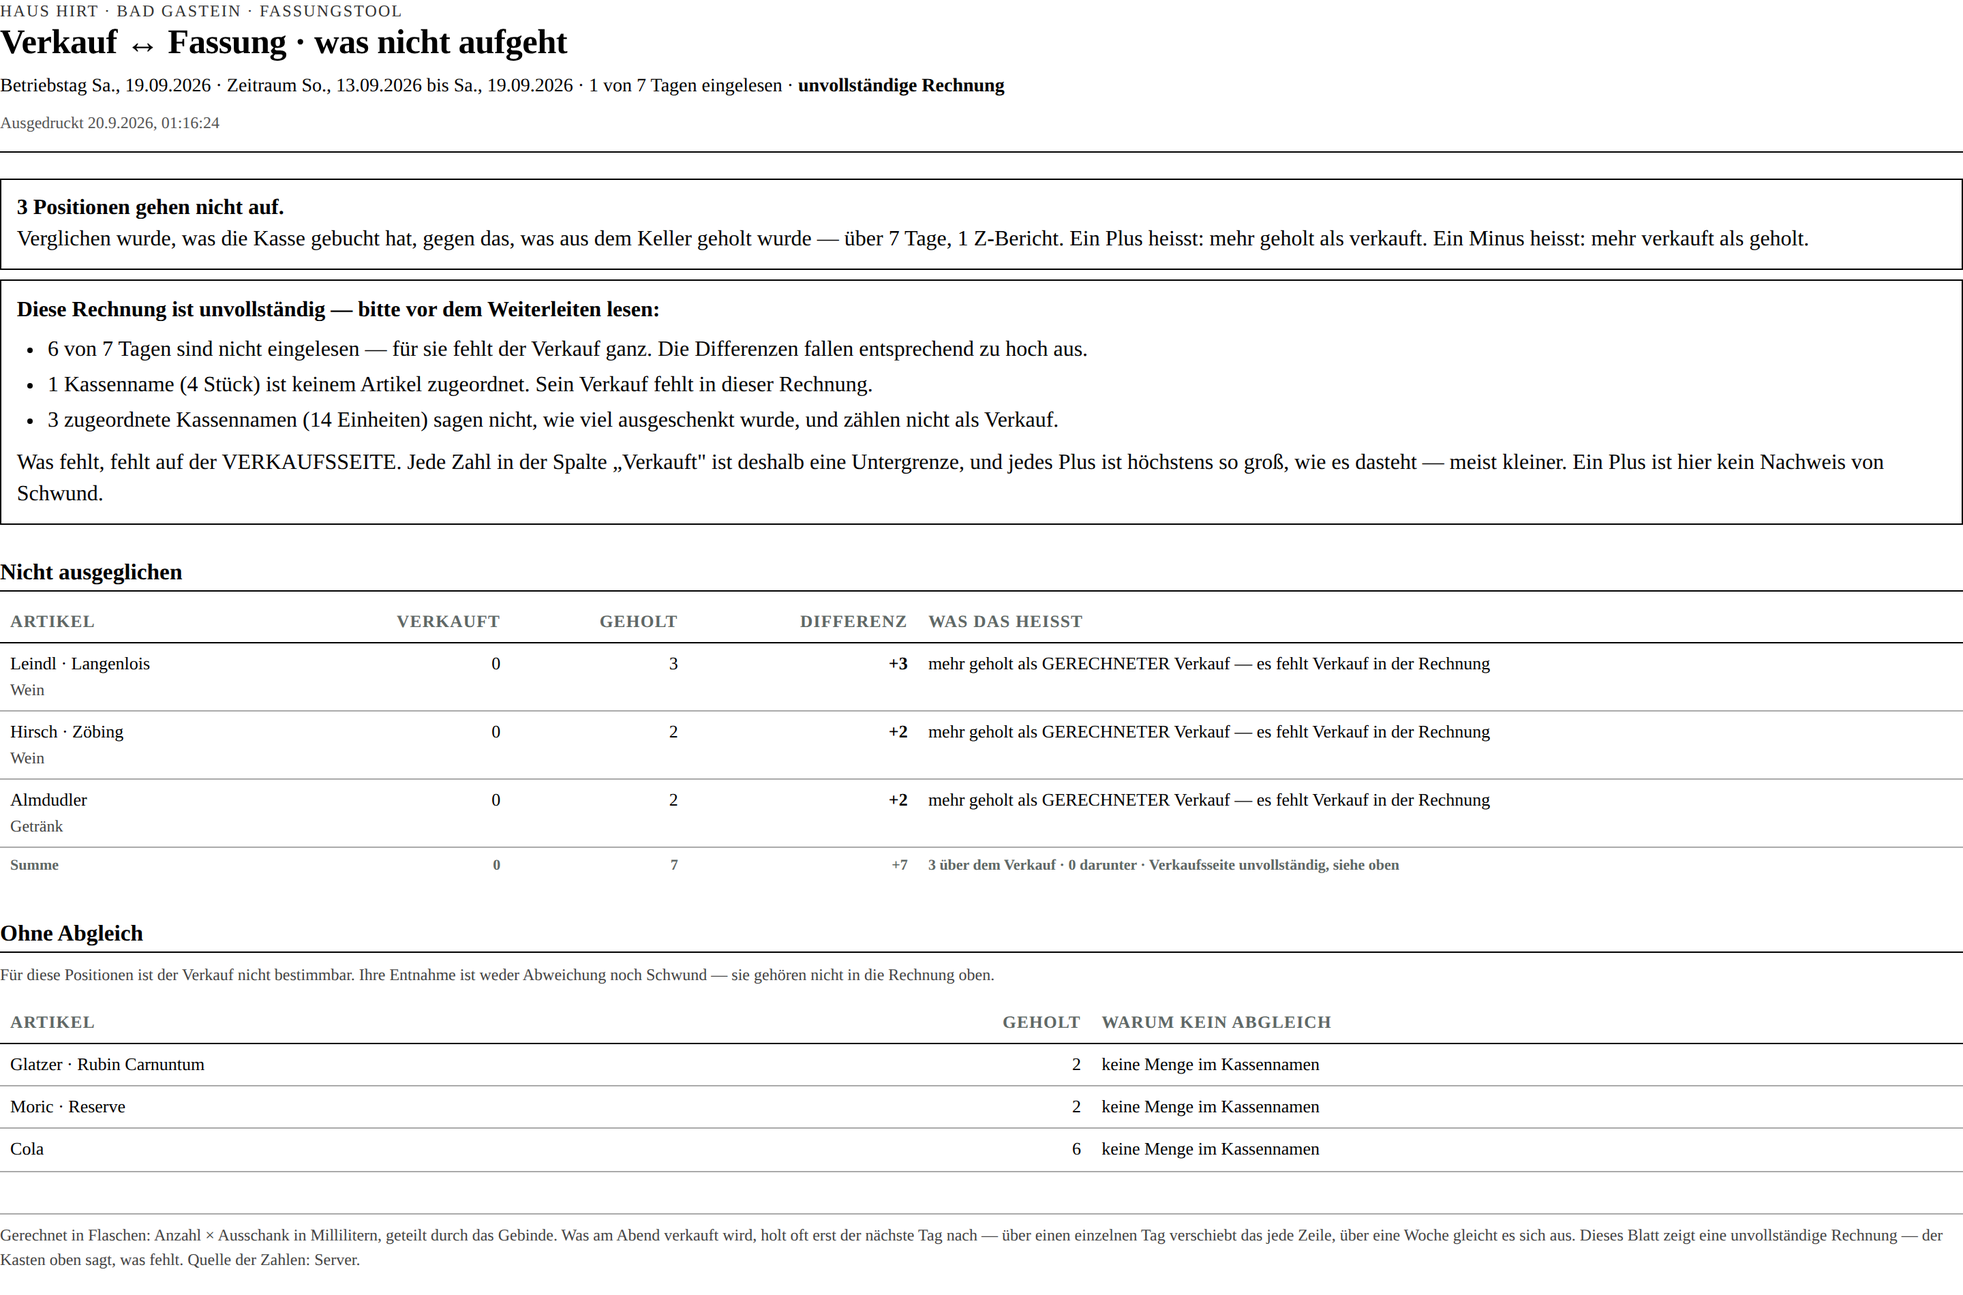
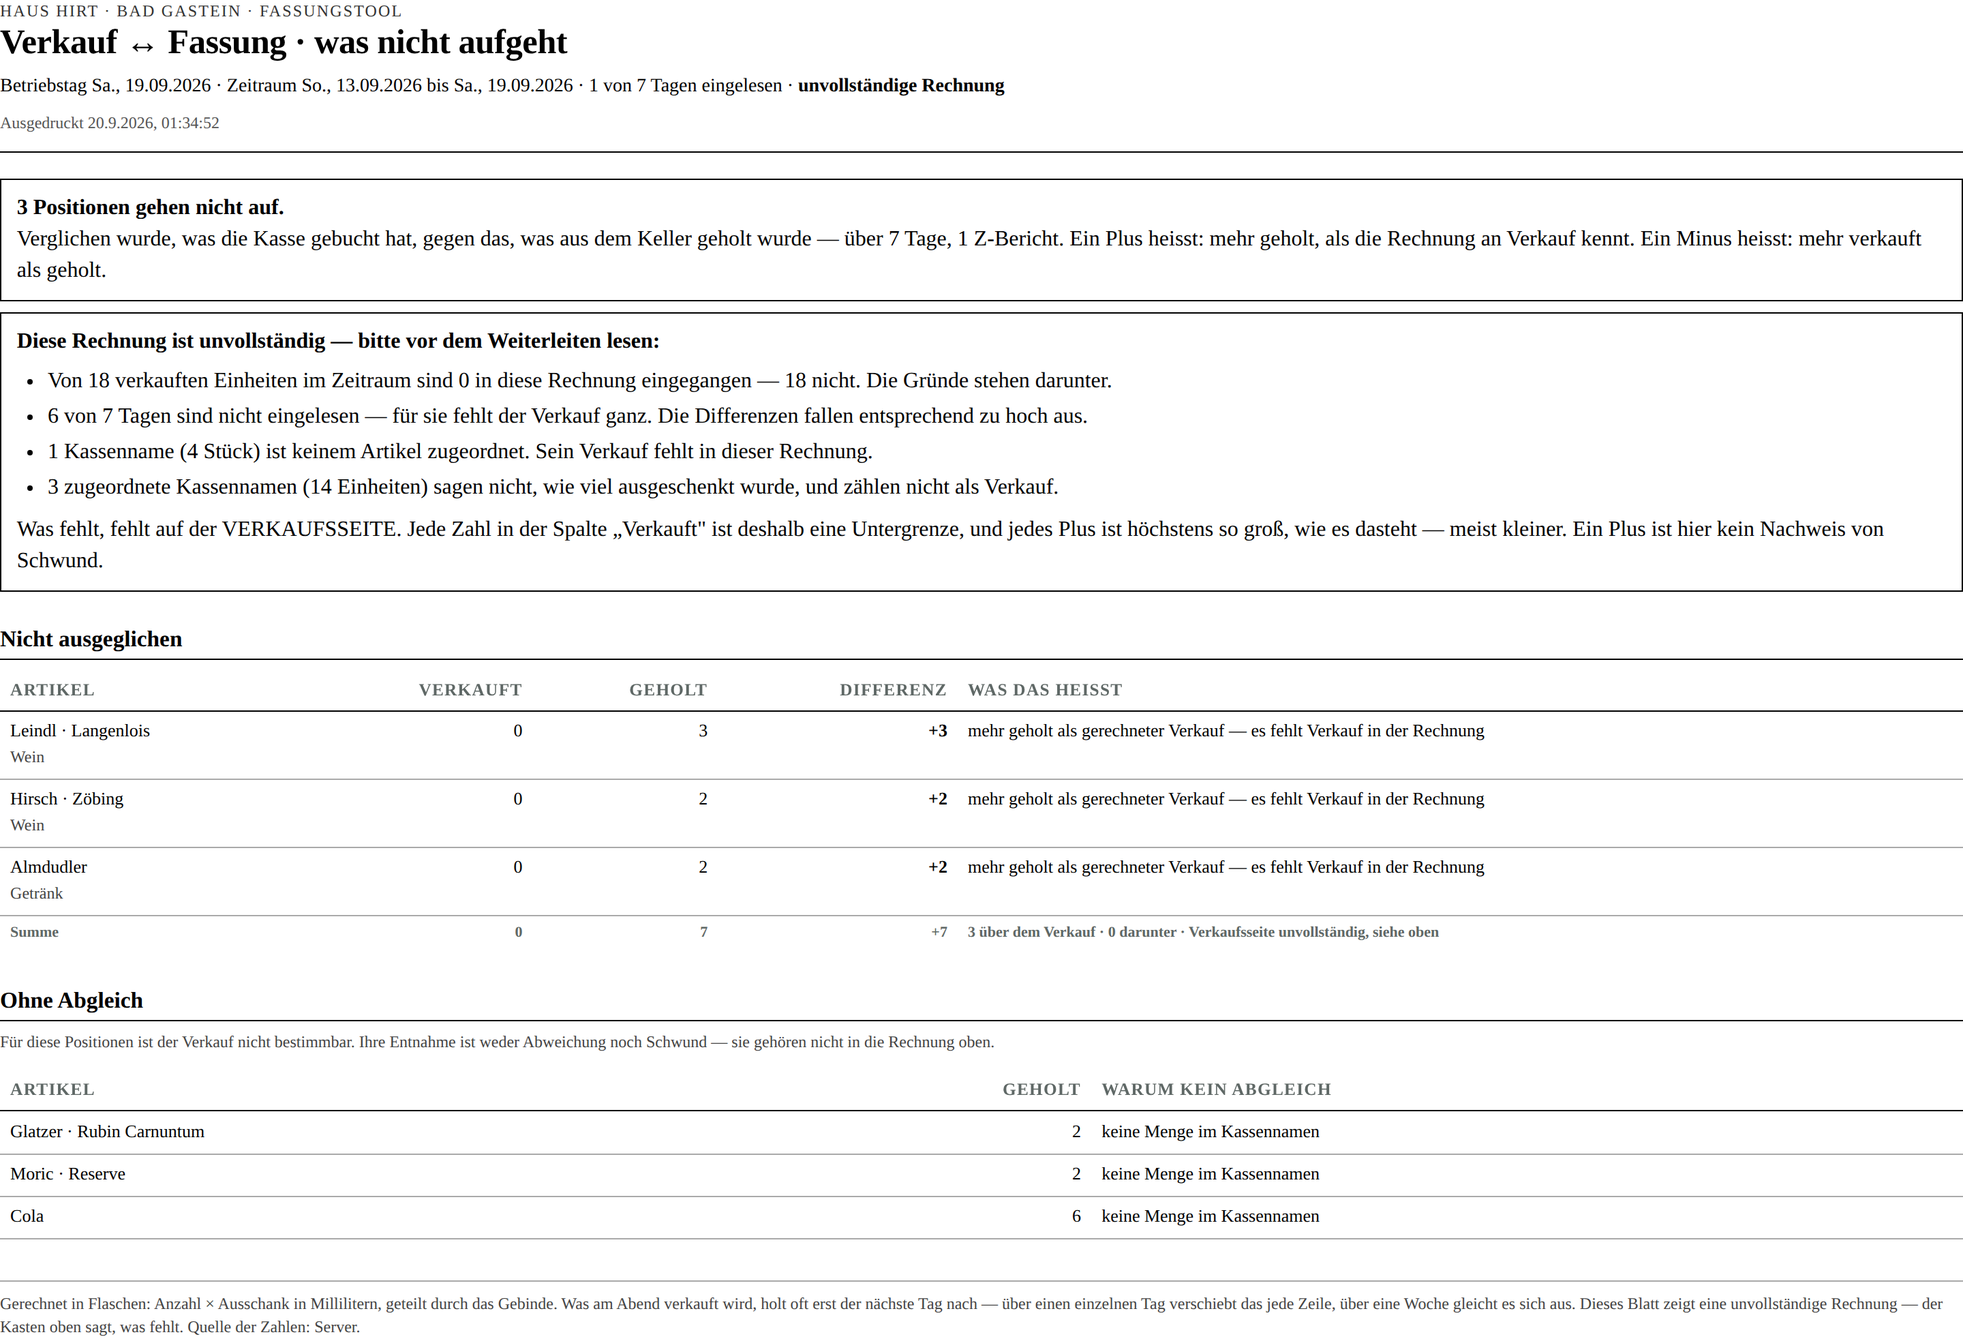
[software-engineer] Runde 18: der A-Fund der zweiten Jagd an der Wurzel
Der Vorbehaltskasten kannte nur die drei Lücken, die sich selbst melden.
Zwei Wege nehmen den Verkauf STILL aus der Rechnung, und beide sind Alltag:

· „Ignorieren" ist ein vollwertiger Zustand und der einzige Weg, einen
  Cocktail ohne Menge im Kassennamen aus dem roten Balken zu bekommen.
  Seine Flaschen kommen trotzdem aus dem Keller.
· Eine Rezeptzutat mit 0 ml rechnete 6 Gläser zu 0 Flaschen und meldete
  „gerechnet" — `Math.max(0, …)` im Formular lässt die 0 zu.

In beiden Lagen stand auf dem Blatt für die Gruppe „Verkauft 0 · Geholt 3 ·
+3 · Vorrat aufgebaut oder Schwund", ohne einen einzigen Vorbehalt.

`abgleich()` zählt jetzt schlicht, wie viele der verkauften EINHEITEN es in
die Rechnung geschafft haben (`stkGesamt`/`stkGerechnet`, additiv). Diese
eine Zahl steht als erste Zeile im Kasten und ist gegen jeden künftigen
stillen Weg dicht. Eine Rezeptzutat ohne Menge gilt nicht mehr als
gerechnet, und das Formular nimmt die 0 nicht mehr an.

Das Wort „Schwund" steht in der Deutungsspalte dieses Blattes überhaupt
nicht mehr — auch bei vollständiger Rechnung entscheidet das ein Mensch im
Keller, kein Ausdruck. Der Kopfsatz, der dem Kasten darunter widersprach,
ist mitgezogen.

Dazu die drei übrigen Funde der zweiten Jagd:
· Bei OFFENER Leiste liess der Randwisch nach rechts Safari zurückblättern
  — genau dort liegt der Daumen. Wieder abgefangen; der 4px-Streifen
  zwischen Inhaltsbeginn und Randzone gehört jetzt ausdrücklich der
  Randgeste.
[…]

Changed region(s): [[0.0, 0.0, 1.0, 1.0], [0.4062, 0.4658, 0.7812, 0.7142], [0.1875, 0.4658, 0.3438, 0.5279]]

diff --git a/public/leitung.html b/public/leitung.html
@@ -1729,6 +1729,23 @@ function abgleich(tag, spanne){
   const imFenster = t => t>=von && t<=bis;
 
   const verk={}, offen=[], ohneGroesse=[], berichte=[];
+  /* NACHTRICHTIGUNG (zweite Jagd nach Runde 18 · A): Bis hierher zählte
+     nur, was sich selbst meldet — fehlende Berichte, offene Namen,
+     fehlende Gebindegrössen. Zwei Wege nehmen den Verkauf aber STILL aus
+     der Rechnung, und beide sind Alltag:
+       · „Ignorieren" ist ein vollwertiger Zustand (`vZuordnung` bewirbt
+         ihn ausdrücklich) und der einzige Weg, einen Cocktail ohne Menge
+         im Kassennamen aus dem roten Balken zu bekommen. Seine Flaschen
+         kommen trotzdem aus dem Keller.
+       · Eine Rezeptzutat mit 0 ml rechnet 6 Gläser zu 0 Flaschen und
+         meldet „gerechnet".
+     In beiden Fällen stand auf dem Blatt für die Gruppe „Verkauft 0 ·
+     Geholt 3 · +3 · Vorrat aufgebaut oder Schwund". Deshalb wird jetzt
+     schlicht gezählt, wie viele der verkauften EINHEITEN es überhaupt in
+     die Rechnung geschafft haben — unabhängig vom Grund. Diese eine Zahl
+     ist gegen jeden künftigen stillen Weg dicht. */
+  let stkGesamt=0, stkGerechnet=0, stkIgnoriert=0;
+  const ignoriert=[];
   /* Artikel, deren VERKAUF in diesem Zeitraum nicht bestimmbar ist.
      Für sie gibt es keine Differenz und keine Deutung — die Entnahme
      steht da, weil sie bekannt ist, aber ohne Urteil.
@@ -1783,6 +1800,7 @@ function abgleich(tag, spanne){
   Object.keys(ZBER).filter(imFenster).sort().forEach(t=>{
     const z=ZBER[t]; berichte.push(z);
     z.positionen.forEach(p=>{
+      stkGesamt+=(+p.anzahl||0);
       const r=REZ[p.name];
       if(r && r.length){                       /* zerlegtes Mischgetränk */
         /* Auch hier gilt: ohne bestätigtes Gebinde keine Flaschenzahl.
@@ -1797,8 +1815,18 @@ function abgleich(tag, spanne){
           r.forEach(x=>zaehlePos(x.id,false,"gebinde"));
           return;
         }
+        /* Eine Zutat ohne Menge ist keine Menge. `Math.max(0, …)` im
+           Formular lässt die 0 zu, und 6 × 0 / 350 = 0 sähe wie ein
+           gerechneter Verkauf von null aus (zweite Jagd · A). */
+        if(r.some(x=>!(+x.ml>0))){
+          const l=r.find(x=>!(+x.ml>0));
+          merkeOhneGroesse(p, l.id, {fehlt:"ausschank"}, true);
+          r.forEach(x=>zaehlePos(x.id,false,"menge"));
+          return;
+        }
         r.forEach((x,i)=>{ verk[x.id]=(verk[x.id]||0)+(+p.anzahl||0)*x.ml/gebs[i].ml;
           zaehlePos(x.id,true); });
+        stkGerechnet+=(+p.anzahl||0);
         return;
       }
       const zu=zuordnung(p);
@@ -1824,10 +1852,17 @@ function abgleich(tag, spanne){
         else offen.push({name:p.name, anzahl:(+p.anzahl||0), umsatz:(+p.umsatz||0)});
         return;
       }
-      if(zu.status==="ignoriert") return;
+      if(zu.status==="ignoriert"){
+        stkIgnoriert+=(+p.anzahl||0);
+        const i=ignoriert.find(o=>o.name===p.name);
+        if(i) i.anzahl+=(+p.anzahl||0);
+        else ignoriert.push({name:p.name, anzahl:(+p.anzahl||0)});
+        return;
+      }
       const f=flaschen(p, zu.id);
       if(!f.ok){ merkeOhneGroesse(p, zu.id, f); zaehlePos(zu.id,false,f.fehlt); return; }
       verk[zu.id]=(verk[zu.id]||0)+f.fl; zaehlePos(zu.id,true);
+      stkGerechnet+=(+p.anzahl||0);
     });
   });
   const z=berichte.length?berichte[berichte.length-1]:null;
@@ -1876,7 +1911,10 @@ function abgleich(tag, spanne){
                  || Math.abs(b.diff)-Math.abs(a.diff) || b.verkauf-a.verkauf);
 
   return {z, zeilen, offen, ohneGroesse, unklar, vorbehalt, verk, ent, von, bis, spanne,
-          berichte:berichte.length};
+          berichte:berichte.length,
+          /* Die eine Zahl, an der ablesbar ist, wie viel von der
+             Verkaufsseite überhaupt in der Rechnung steht. */
+          ignoriert, stkGesamt, stkGerechnet, stkIgnoriert};
 }
 
 /* `ohneGroesse` führt an drei verschiedene Orte, und wer sie in einen
@@ -2616,6 +2654,13 @@ function druckDifferenzen(tag, a){
   const tOG=teileOhneGroesse(a.ohneGroesse);
   const stkOffen=a.offen.reduce((s,o)=>s+(+o.anzahl||0),0);
   const vorbehalte=[];
+  /* NACHTRICHTIGUNG (zweite Jagd · A): Zuerst die eine Zahl, die jeden
+     Weg mitnimmt — auch die stillen. Danach erst die Gründe. */
+  const draussen=Math.max(0, (a.stkGesamt||0)-(a.stkGerechnet||0));
+  if(draussen) vorbehalte.push(
+    "Von "+num(a.stkGesamt)+" verkauften Einheiten im Zeitraum sind "
+    +num(a.stkGerechnet)+" in diese Rechnung eingegangen — "+num(draussen)
+    +" nicht. Die Gründe stehen darunter.");
   if(a.berichte<a.spanne) vorbehalte.push(
     (a.spanne-a.berichte)+" von "+a.spanne+" Tagen sind nicht eingelesen — für sie fehlt "
     +"der Verkauf ganz. Die Differenzen fallen entsprechend zu hoch aus.");
@@ -2630,9 +2675,14 @@ function druckDifferenzen(tag, a){
   if(tOG.ausschank.length) vorbehalte.push(
     tOG.ausschank.length+" zugeordnete Kassennamen ("+num(tOG.stkAusschank)
     +" Einheiten) sagen nicht, wie viel ausgeschenkt wurde, und zählen nicht als Verkauf.");
+  if(a.ignoriert && a.ignoriert.length) vorbehalte.push(
+    a.ignoriert.length+" Kassennamen ("+num(a.stkIgnoriert)+" Einheiten) stehen auf "
+    +"\u201eIgnorieren\u201c und zählen nicht als Verkauf — richtig für Speisen und Kaffee, "
+    +"falsch, sobald ein Getränk darunter ist.");
   /* Solange irgendein Verkauf fehlt, ist ein Plus kein Befund über den
-     Keller. Das Wort, das jemanden beschuldigt, bleibt dann weg. */
-  const halbeRechnung = vorbehalte.length>0;
+     Keller. `draussen` deckt auch die Wege ab, für die es keinen eigenen
+     Grund in der Liste gibt (zweite Jagd · A). */
+  const halbeRechnung = draussen>0 || a.berichte<a.spanne || vorbehalte.length>0;
 
   const kopf=`<div class="notiz">
     ${a.berichte
@@ -2640,8 +2690,8 @@ function druckDifferenzen(tag, a){
          ? `<b>${auf.length} Position${auf.length===1?"":"en"} gehen nicht auf.</b><br>
             Verglichen wurde, was die Kasse gebucht hat, gegen das, was aus dem Keller
             geholt wurde — über ${a.spanne} Tag${a.spanne===1?"":"e"}, ${a.berichte}
-            Z-Bericht${a.berichte===1?"":"e"}. Ein Plus heisst: mehr geholt als verkauft.
-            Ein Minus heisst: mehr verkauft als geholt.`
+            Z-Bericht${a.berichte===1?"":"e"}. Ein Plus heisst: mehr geholt, als die Rechnung
+            an Verkauf kennt. Ein Minus heisst: mehr verkauft als geholt.`
          : `<b>Verkauf und Entnahme decken sich.</b><br>
             Keine Position weicht über eine Flasche ab.`)
       : `<b>In diesem Zeitraum liegt kein Z-Bericht vor.</b><br>
@@ -2663,8 +2713,12 @@ function druckDifferenzen(tag, a){
         <td class="r plus">${r.diff>0?"+":""}${num(r.diff)}</td>
         <td>${r.diff>0
               ?(halbeRechnung
-                ?"mehr geholt als GERECHNETER Verkauf — es fehlt Verkauf in der Rechnung"
-                :"mehr geholt als verkauft — Vorrat aufgebaut oder Schwund")
+                ?"mehr geholt als gerechneter Verkauf — es fehlt Verkauf in der Rechnung"
+                /* Auch bei vollständiger Rechnung steht hier kein
+                   Vorwurf. Das Blatt geht in eine Gruppe; ob eine
+                   Flasche fehlt oder im Vorrat steht, entscheidet ein
+                   Mensch im Keller, nicht ein Ausdruck (zweite Jagd). */
+                :"mehr geholt als verkauft — Vorrat aufgebaut oder im Keller nachsehen")
               :"mehr verkauft als geholt — Vorrat wird abgebaut"}
           ${r.vorbehalt?`<br><span class="mini">${esc(vorbehaltSatz(r.vorbehalt))}</span>`:""}</td>
       </tr>`).join("")}
@@ -3224,7 +3278,7 @@ function vZaehlliste(m){
 
    Zwei leere Zustände, nicht einer (ui-designer, Runde 3): „nichts da"
    und „nichts passt" sind verschiedene Nachrichten. */
-let EGFILTER={modus:"", wer:"", q:""}, EGOFFEN=null;
+let EGFILTER={modus:"", wer:"", q:""}, EGOFFEN=null, EGFREMD=null;
 
 /* Ein Vorgang hat auf dem Server eine `id`; lokal (Rückfall auf den
    Gerätespeicher) hat er keine. Der Schlüssel muss beides überstehen,
@@ -3318,12 +3372,23 @@ function vEingaenge(m){
           <td class="r"><button class="b klein" data-fremd="${i}">Ansehen</button></td>
         </tr>`).join("")}</tbody></table></div>`;
     m.appendChild(s);
-    /* `EGOFFEN` bleibt hier leer: Es zeigt auf die Serverliste, und ein
-       Schlüssel, den `finde()` dort nicht findet, liesse beim nächsten
-       Neuzeichnen ein Detail stehen, das zur Liste darüber nicht passt. */
+    /* NACHTRICHTIGUNG (zweite Jagd · B): Dieses Detail gehört zur Tabelle
+       darüber, nicht zur Serverliste. Es lag trotzdem in `#egDetail` —
+       und jeder Tastendruck im Suchfeld der SERVERLISTE löschte es, ohne
+       ein Wort, während seine eigene Tabelle unverändert stehenblieb.
+       Es bekommt deshalb eine eigene Fläche. */
+    const fd=document.createElement("div"); fd.id="egFremdDetail"; s.appendChild(fd);
+    const fSchl=v=>vgSchluessel(v);
     s.querySelectorAll("[data-fremd]").forEach(b=>b.onclick=()=>{
-      EGOFFEN=null; malDetail(fremd[+b.dataset.fremd]);
-      $("#egDetail").scrollIntoView({behavior:"smooth", block:"start"}); });
+      const v=fremd[+b.dataset.fremd];
+      EGFREMD=fSchl(v); malDetail(v, fd);
+      fd.scrollIntoView({behavior:"smooth", block:"start"}); });
+    /* Ein Filter der Serverliste zeichnet die ganze Ansicht neu. Ohne
+       eigenen Merker wäre dieses Detail danach weg — dieselbe Ursache,
+       nur eine Ebene tiefer (zweite Jagd · B). Die Tabelle hier steht
+       unverändert, also steht ihr Detail auch unverändert. */
+    const wieder=EGFREMD?fremd.find(v=>fSchl(v)===EGFREMD):null;
+    if(wieder) malDetail(wieder, fd); else EGFREMD=null;
   }
 
   function gefiltert(){
@@ -3372,6 +3437,10 @@ function vEingaenge(m){
        Runde 18 · B). */
     $("#egListe").querySelectorAll("[data-egzeile]").forEach(tr=>tr.onclick=e=>{
       if(e.target.closest("button")) return;
+      /* Wer eine Notiz markiert hat, wollte sie markieren, nicht öffnen
+         (zweite Jagd · C). */
+      const w=window.getSelection && window.getSelection();
+      if(w && !w.isCollapsed && String(w).length>1) return;
       aufschlagen(tr.dataset.egzeile); });
     $("#egListe").querySelectorAll("[data-egpdf]").forEach(b=>b.onclick=()=>{
       const v=finde(b.dataset.egpdf); if(v) druckVorgang(v);});
@@ -3379,8 +3448,10 @@ function vEingaenge(m){
     if(offen) malDetail(offen);
     else if($("#egDetail")) $("#egDetail").innerHTML="";
   }
-  function malDetail(v){
-    if(!v){ $("#egDetail").innerHTML=""; return; }
+  function malDetail(v, wohin){
+    const ziel = wohin || $("#egDetail");
+    if(!ziel) return;
+    if(!v){ ziel.innerHTML=""; return; }
     const B=vgBloecke(v);
     const tab=b=>{
       const ks=Object.keys(b.o).filter(k=>b.art==="zaehlung" || +b.o[k])
@@ -3392,22 +3463,26 @@ function vEingaenge(m){
         ${ks.map(k=>`<tr><td>${esc(vgName(k))}</td><td class="r"><b>${num(b.o[k])}</b></td></tr>`).join("")}
         <tr class="zwt"><td>Summe</td><td class="r">${num(summe(b.o))}</td></tr></tbody></table></div>`;
     };
-    $("#egDetail").innerHTML=`<div class="karte" style="margin-top:24px">
+    ziel.innerHTML=`<div class="karte" style="margin-top:24px">
       <div class="reihe">
         <div><h3 style="margin:0">${esc(MODUSNAME[v.mode]||v.mode)} · ${esc(deTag(v.tag))}</h3>
           <div class="mini">${esc(v.name||"ohne Namen")}${v.ts?" · abgelegt "+esc(new Date(v.ts).toLocaleString("de-AT")):""}
             · ${v.fertig?"abgeschlossen":"läuft noch"}</div></div>
         <span class="rechts"></span>
-        <button class="b" id="egPdf">Als PDF</button>
-        <button class="b klein" id="egJson">Rohdaten</button>
-        <button class="b klein" id="egZu">Schließen</button></div>
+        <button class="b" data-pdf>Als PDF</button>
+        <button class="b klein" data-json>Rohdaten</button>
+        <button class="b klein" data-zu>Schließen</button></div>
       ${v.notiz?`<div class="hinweis" style="margin-top:14px"><b>Notiz:</b> ${esc(v.notiz)}</div>`:""}
       ${B.length?B.map(tab).join("")
         :`<div class="leer" style="margin-top:20px">Dieser Vorgang hat keine Mengen bewegt und nichts gezählt.</div>`}
     </div>`;
-    $("#egZu").onclick=()=>{EGOFFEN=null; $("#egDetail").innerHTML="";};
-    $("#egPdf").onclick=()=>druckVorgang(v);
-    $("#egJson").onclick=()=>hol(`vorgang_${v.mode}_${v.tag}.json`,
+    /* Die Knöpfe hängen an der Karte, die gerade gebaut wurde — nicht an
+       einer Kennung, die es zweimal geben kann. */
+    ziel.querySelector("[data-zu]").onclick=()=>{
+      if(wohin) EGFREMD=null; else EGOFFEN=null;
+      ziel.innerHTML=""; };
+    ziel.querySelector("[data-pdf]").onclick=()=>druckVorgang(v);
+    ziel.querySelector("[data-json]").onclick=()=>hol(`vorgang_${v.mode}_${v.tag}.json`,
       JSON.stringify(v.roh,null,2), "application/json");
   }
 }
@@ -3580,6 +3655,9 @@ function vRezepte(m){
     const nm=$("#rzName").value;
     if(!nm) return toast("Erst eine Kassenposition wählen");
     if(!zut.length) return toast("Ohne Zutat ist es keine Rezeptur");
+    /* `min="10"` im Feld greift ohne Formularprüfung nicht (zweite Jagd · A). */
+    if(zut.some(x=>!(+x.ml>0)))
+      return toast("Jede Zutat braucht eine Menge in Millilitern — 0 rechnet keinen Verkauf.");
     REZ[nm]=zut.map(t=>({id:t.id, ml:t.ml})); schreib(K_REZ,REZ);
     zeichne(); toast("Rezeptur gespeichert");
   };
@@ -4015,23 +4093,30 @@ document.addEventListener("keydown",e=>{
      was die Geste selbst braucht, und `preventDefault` nur noch dort,
      wo auch wirklich etwas geschieht. */
   const RAND=20, SCHWELLE=48, TOTZONE=10;
-  let x0=null, y0=0, aktiv=false, hin=0;
+  let x0=null, y0=0, aktiv=false, hin=0, amRand=false;
   const offen=()=>document.body.classList.contains("navoffen");
   /* Was die waagrechte Geste selbst braucht, behält sie. Dort bleibt es
      beim Verhalten des Browsers — auch beim Zurückblättern. */
-  const eigenerBedarf=el=>{
+  /* NACHTRICHTIGUNG (zweite Jagd · C): Der Inhalt beginnt bei 16px, die
+     Randzone endet bei 20px — in diesem 4px-Streifen gewinnt die
+     Randgeste, sonst gäbe es ein Loch, durch das Safari zurückblättert.
+     Ein Eingabefeld behält die Geste auch dort: dort wird gezogen, um
+     Text zu wählen, und das ist keine Navigation. */
+  const eigenerBedarf=(el,amRand)=>{
     if(!el || !el.closest) return false;
     if(el.closest("input,textarea,select,[contenteditable]")) return true;
+    if(amRand) return false;
     const h=el.closest(".tabhuelle");
     return !!(h && h.scrollWidth > h.clientWidth+4);
   };
 
   addEventListener("touchstart", e=>{
-    x0=null; aktiv=false; hin=0;
+    x0=null; aktiv=false; hin=0; amRand=false;
     if(e.touches.length!==1) return;
     const t=e.touches[0];
-    if(!(t.clientX<=RAND || offen())) return;
-    if(eigenerBedarf(t.target)) return;
+    amRand = t.clientX<=RAND;
+    if(!(amRand || offen())) return;
+    if(eigenerBedarf(t.target, amRand)) return;
     x0=t.clientX; y0=t.clientY;
   }, {passive:true});
 
@@ -4043,11 +4128,15 @@ document.addEventListener("keydown",e=>{
       /* Senkrecht: das ist Scrollen, und es bleibt Scrollen. */
       if(Math.abs(dy)>=Math.abs(dx)){ x0=null; return; }
       hin=dx>0?1:-1;
-      /* Nur die zwei Richtungen, die etwas bewirken: aufziehen, wenn zu
-         ist, zuziehen, wenn offen ist. Alles andere gibt der Browser
-         selbst weiter — eine Geste abzufangen, die nichts auslöst, ist
-         die schlechteste Art, nichts zu tun. */
-      if(hin>0 === offen()){ x0=null; return; }
+      /* Zwei Gründe, die Geste zu behalten: Sie bewirkt etwas
+         (aufziehen, wenn zu ist; zuziehen, wenn offen ist) — ODER sie
+         beginnt am linken Rand, wo Safari sonst zurückblättert.
+         NACHTRICHTIGUNG (zweite Jagd · B): Die erste Fassung dieser
+         Zeile liess bei OFFENER Leiste den Randwisch nach rechts los.
+         Genau dort liegt der Daumen, wenn die Schublade offen ist, und
+         „zurück" heisst hier: aus dem Backoffice heraus. */
+      const wirkt = (hin>0 && !offen()) || (hin<0 && offen());
+      if(!wirkt && !amRand){ x0=null; return; }
       aktiv=true;
     }
     /* Ab hier gehört die Bewegung dieser Seite. */

diff --git a/public/sw.js b/public/sw.js
@@ -21,7 +21,7 @@
    Sonst behält das iPhone hartnäckig den alten Stand.
    ════════════════════════════════════════════════════════════════════ */
 
-const VERSION = "v57";
+const VERSION = "v58";
 const SPEICHER = "hh-fassung-" + VERSION;
 
 /* Was im Keller verfügbar sein muss. Die Schriften stehen mit drin,
